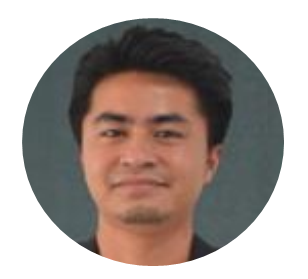
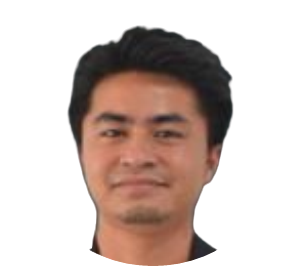
some minor customizations

Changed region(s): [[0.0584, 0.0573, 0.9351, 0.9176]]

diff --git a/src/sections/team-section.js b/src/sections/team-section.js
@@ -7,18 +7,18 @@ import { FaFacebookF, FaTwitter, FaInstagram } from 'react-icons/fa'
 
 import Member1 from 'assets/esscor/Slide1.png'
 import Member2 from 'assets/esscor/Slide2.png'
-import Member3 from 'assets/team/member-3.png'
-import Member4 from 'assets/team/member-4.png'
-import Member5 from 'assets/team/member-5.png'
-import Member6 from 'assets/team/member-6.png'
+import Member3 from 'assets/esscor/Slide3.png'
+import Member4 from 'assets/esscor/Slide4.png'
+import Member5 from 'assets/esscor/Slide5.png'
+import Member6 from 'assets/esscor/Slide6.png'
 
 const data = [
   {
     id: 1,
     imgSrc: Member1,
-    altText: 'Saimon Harmer',
-    title: 'Saimon Harmer',
-    designation: 'CEO and Founder',
+    altText: 'Dexter Loquinario',
+    title: 'Dexter Loquinario',
+    designation: 'Senior Account Manager',
     socialProfile: [
       {
         id: 1,
@@ -43,9 +43,9 @@ const data = [
   {
     id: 2,
     imgSrc: Member2,
-    altText: 'Aaron Nunez',
-    title: 'Aaron Nunez',
-    designation: 'Founder',
+    altText: 'Algin Bacalso',
+    title: 'Algin Bacalso',
+    designation: 'Project Engineer',
     socialProfile: [
       {
         id: 1,
@@ -70,9 +70,9 @@ const data = [
   {
     id: 3,
     imgSrc: Member3,
-    altText: 'Aaron Nunez',
-    title: 'Aaron Nunez',
-    designation: 'Web Designer',
+    altText: 'Paulito Milang',
+    title: 'Paulito Milang',
+    designation: 'Hardcore Technician',
     socialProfile: [
       {
         id: 1,
@@ -97,9 +97,9 @@ const data = [
   {
     id: 4,
     imgSrc: Member4,
-    altText: 'Lina Jutila',
-    title: 'Lina Jutila',
-    designation: 'Web Developer',
+    altText: 'Jhon Frederic Getigan',
+    title: 'Jhon Frederic Getigan',
+    designation: 'Systems Engineer',
     socialProfile: [
       {
         id: 1,
@@ -124,9 +124,9 @@ const data = [
   {
     id: 5,
     imgSrc: Member5,
-    altText: 'Saimon Harmer',
-    title: 'Saimon Harmer',
-    designation: 'CEO and Founder',
+    altText: 'Eleazar Bohol',
+    title: 'Eleazar Bohol',
+    designation: 'Systems Engineer',
     socialProfile: [
       {
         id: 1,
@@ -151,9 +151,9 @@ const data = [
   {
     id: 6,
     imgSrc: Member6,
-    altText: 'Aaron Nunez',
-    title: 'Aaron Nunez',
-    designation: 'Web Designer',
+    altText: 'Van Darrell Ponce',
+    title: 'Van Darrell Ponce',
+    designation: 'Solutions Engineer / Web Developer',
     socialProfile: [
       {
         id: 1,
@@ -179,10 +179,16 @@ const data = [
 
 export default function TeamSection() {
   return (
-    <section>
+    <section
+      style={{
+        backgroundColor: 'rgb(250,250,250)',
+        paddingTop: '40px',
+        marginBottom: '40px',
+      }}
+    >
       <Container>
         <SectionHeader
-          slogan="Our Team"
+          slogan="Meet Our Team"
           title="The most qualified and talented individuals"
         />
         <Grid sx={styles.grid}>

diff --git a/src/components/team-card.js b/src/components/team-card.js
@@ -1,11 +1,28 @@
 /** @jsx jsx */
-import { jsx } from 'theme-ui';
-import { Text, Heading, Image, Box, Link } from 'theme-ui';
+import { jsx } from 'theme-ui'
+import { Text, Heading, Image, Box, Link } from 'theme-ui'
 
 export default function TeamCard({ src, altText, title, designation, social }) {
   return (
-    <h1>TeamCard</h1>
-  );
+    <Box sx={styles.card}>
+      <Image src={src} alt={altText} sx={styles.memberThumb} />
+      <Box sx={styles.infoWrapper}>
+        <Heading className="info__name" sx={styles.infoWrapper.name}>
+          {title}
+        </Heading>
+        <Text className="info__designation" sx={styles.infoWrapper.designation}>
+          {designation}
+        </Text>
+      </Box>
+      <Box sx={styles.socialShare} className="social__share">
+        {social.map((item) => (
+          <Link key={item.id} href={item.path} className={item.name}>
+            {item.icon}
+          </Link>
+        ))}
+      </Box>
+    </Box>
+  )
 }
 
 const styles = {
@@ -87,4 +104,4 @@ const styles = {
       },
     },
   },
-};
+}

diff --git a/src/sections/package.js b/src/sections/package.js
@@ -188,8 +188,8 @@ const styles = {
       letterSpacing: '-0.24px',
       transition: 'all 0.3s',
       '&.active': {
-        color: '#0f2137',
-        backgroundColor: '#ffffff',
+        color: '#FFFFFF',
+        backgroundColor: '#C4423F',
         boxShadow: '0 3px 4px rgba(38, 78, 118, 0.1)',
       },
       '&:focus': {
